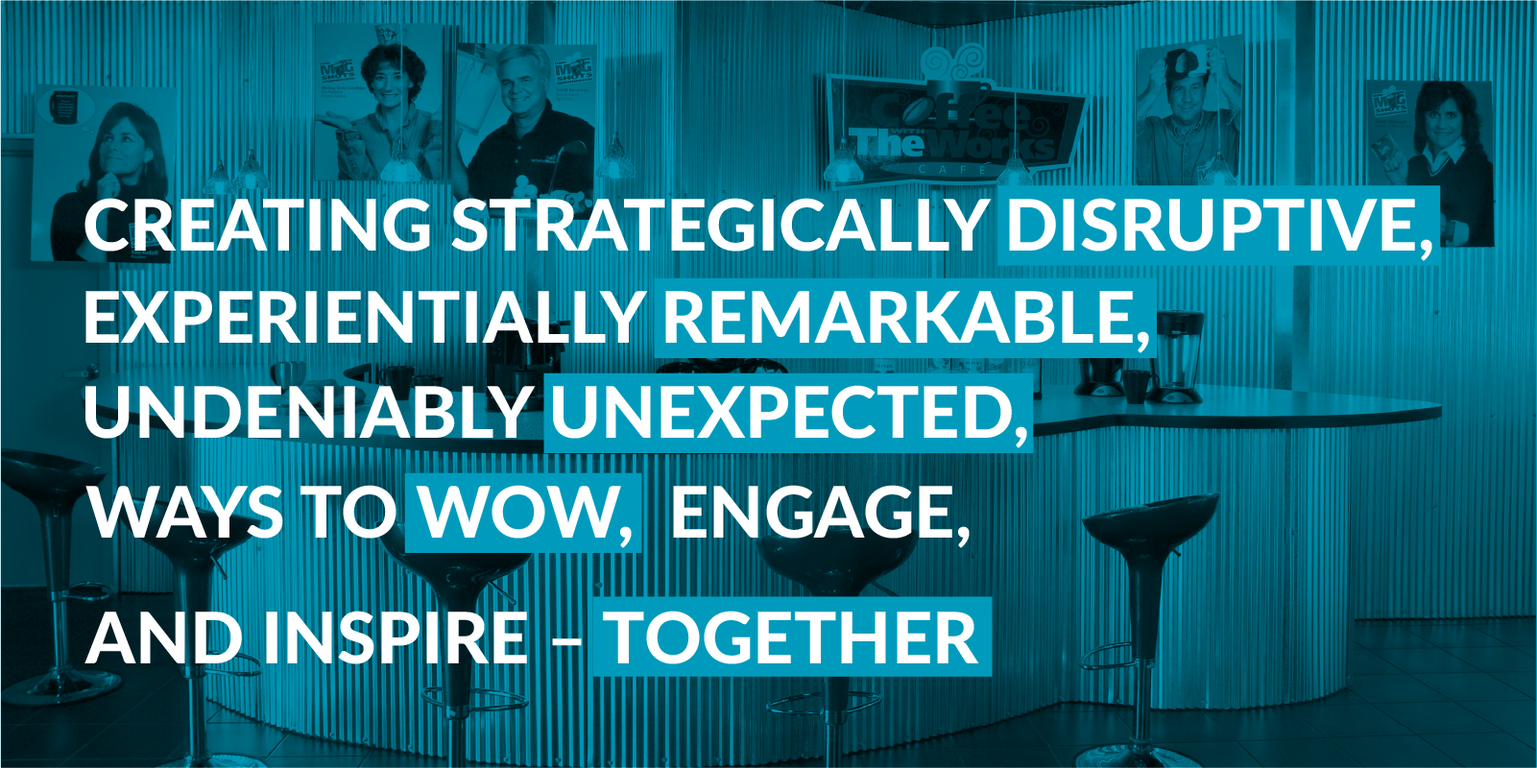
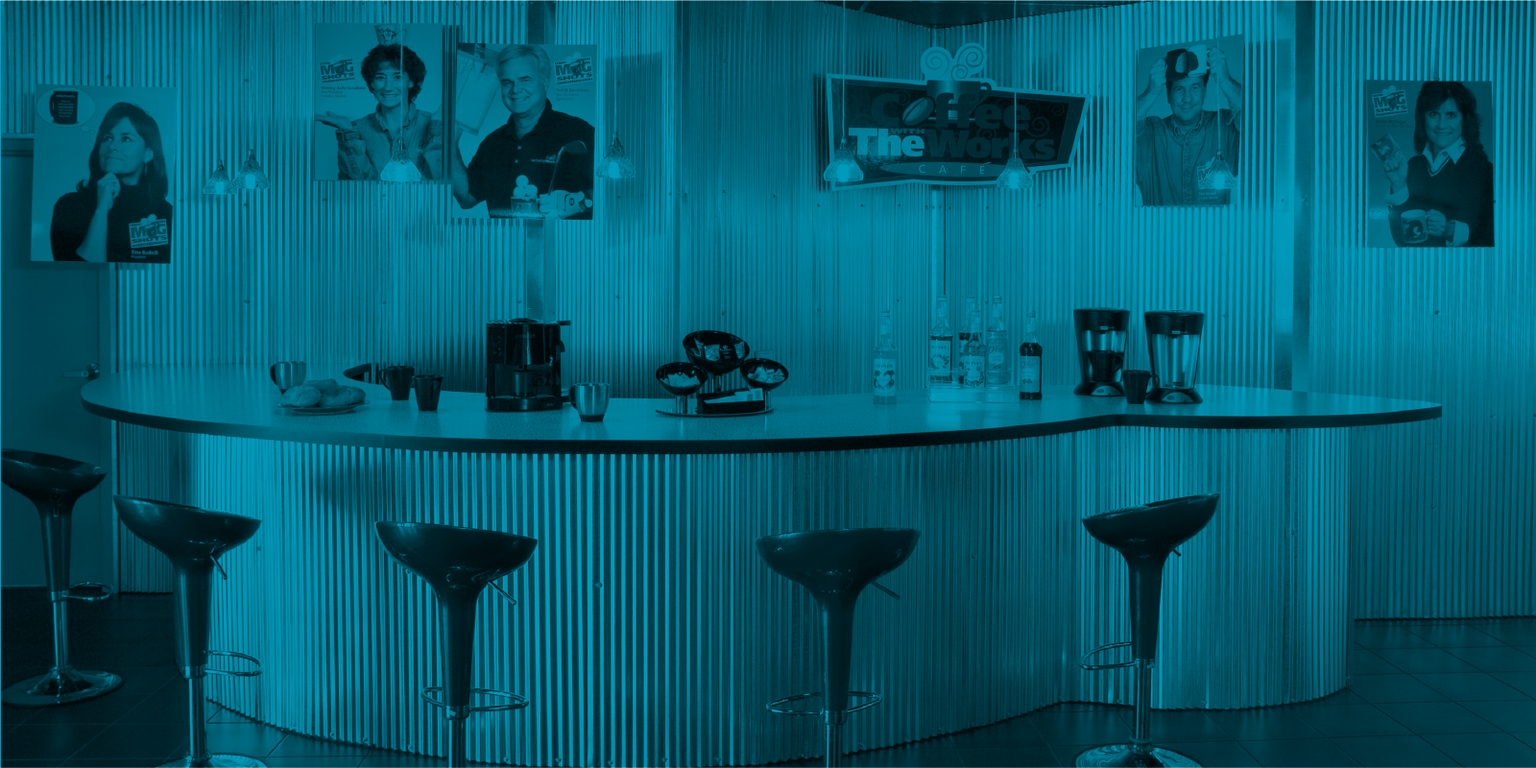
shit

Changed region(s): [[0.0312, 0.0, 1.0, 1.0], [0.7812, 0.5625, 0.9062, 0.9062], [0.9688, 0.625, 1.0, 0.75]]

diff --git a/wp-content/themes/marketingworks/assets/css/theme.min.css b/wp-content/themes/marketingworks/assets/css/theme.min.css
@@ -1,1 +1,1 @@
-.container,.container-fluid{margin-right:auto;margin-left:auto}.container-fluid:after,.container-fluid:before,.container:after,.container:before,.row:after,.row:before{content:" ";display:table}.container-fluid:after,.container:after,.row:after{clear:both}.container,.container-fluid{padding-left:15px;padding-right:15px}.col-xs-1,.col-xs-10,.col-xs-11,.col-xs-12,.col-xs-2,.col-xs-3,.col-xs-4,.col-xs-5,.col-xs-6,.col-xs-7,.col-xs-8,.col-xs-9,.nav-primary{float:left}@media (min-width:768px){.container{width:750px}}@media (min-width:992px){.container{width:970px}}@media (min-width:1200px){.container{width:1170px}}.row{margin-left:-15px;margin-right:-15px}.col-lg-1,.col-lg-10,.col-lg-11,.col-lg-12,.col-lg-2,.col-lg-3,.col-lg-4,.col-lg-5,.col-lg-6,.col-lg-7,.col-lg-8,.col-lg-9,.col-md-1,.col-md-10,.col-md-11,.col-md-12,.col-md-2,.col-md-3,.col-md-4,.col-md-5,.col-md-6,.col-md-7,.col-md-8,.col-md-9,.col-sm-1,.col-sm-10,.col-sm-11,.col-sm-12,.col-sm-2,.col-sm-3,.col-sm-4,.col-sm-5,.col-sm-6,.col-sm-7,.col-sm-8,.col-sm-9,.col-xs-1,.col-xs-10,.col-xs-11,.col-xs-12,.col-xs-2,.col-xs-3,.col-xs-4,.col-xs-5,.col-xs-6,.col-xs-7,.col-xs-8,.col-xs-9{position:relative;min-height:1px;padding-left:15px;padding-right:15px}.col-xs-1{width:8.33333%}.col-xs-2{width:16.66667%}.col-xs-3{width:25%}.col-xs-4{width:33.33333%}.col-xs-5{width:41.66667%}.col-xs-6{width:50%}.col-xs-7{width:58.33333%}.col-xs-8{width:66.66667%}.col-xs-9{width:75%}.col-xs-10{width:83.33333%}.col-xs-11{width:91.66667%}.col-xs-12{width:100%}.col-xs-pull-0{right:auto}.col-xs-pull-1{right:8.33333%}.col-xs-pull-2{right:16.66667%}.col-xs-pull-3{right:25%}.col-xs-pull-4{right:33.33333%}.col-xs-pull-5{right:41.66667%}.col-xs-pull-6{right:50%}.col-xs-pull-7{right:58.33333%}.col-xs-pull-8{right:66.66667%}.col-xs-pull-9{right:75%}.col-xs-pull-10{right:83.33333%}.col-xs-pull-11{right:91.66667%}.col-xs-pull-12{right:100%}.col-xs-push-0{left:auto}.col-xs-push-1{left:8.33333%}.col-xs-push-2{left:16.66667%}.col-xs-push-3{left:25%}.col-xs-push-4{left:33.33333%}.col-xs-push-5{left:41.66667%}.col-xs-push-6{left:50%}.col-xs-push-7{left:58.33333%}.col-xs-push-8{left:66.66667%}.col-xs-push-9{left:75%}.col-xs-push-10{left:83.33333%}.col-xs-push-11{left:91.66667%}.col-xs-push-12{left:100%}.col-xs-offset-0{margin-left:0}.col-xs-offset-1{margin-left:8.33333%}.col-xs-offset-2{margin-left:16.66667%}.col-xs-offset-3{margin-left:25%}.col-xs-offset-4{margin-left:33.33333%}.col-xs-offset-5{margin-left:41.66667%}.col-xs-offset-6{margin-left:50%}.col-xs-offset-7{margin-left:58.33333%}.col-xs-offset-8{margin-left:66.66667%}.col-xs-offset-9{margin-left:75%}.col-xs-offset-10{margin-left:83.33333%}.col-xs-offset-11{margin-left:91.66667%}.col-xs-offset-12{margin-left:100%}@media (min-width:768px){.col-sm-1,.col-sm-10,.col-sm-11,.col-sm-12,.col-sm-2,.col-sm-3,.col-sm-4,.col-sm-5,.col-sm-6,.col-sm-7,.col-sm-8,.col-sm-9{float:left}.col-sm-1{width:8.33333%}.col-sm-2{width:16.66667%}.col-sm-3{width:25%}.col-sm-4{width:33.33333%}.col-sm-5{width:41.66667%}.col-sm-6{width:50%}.col-sm-7{width:58.33333%}.col-sm-8{width:66.66667%}.col-sm-9{width:75%}.col-sm-10{width:83.33333%}.col-sm-11{width:91.66667%}.col-sm-12{width:100%}.col-sm-pull-0{right:auto}.col-sm-pull-1{right:8.33333%}.col-sm-pull-2{right:16.66667%}.col-sm-pull-3{right:25%}.col-sm-pull-4{right:33.33333%}.col-sm-pull-5{right:41.66667%}.col-sm-pull-6{right:50%}.col-sm-pull-7{right:58.33333%}.col-sm-pull-8{right:66.66667%}.col-sm-pull-9{right:75%}.col-sm-pull-10{right:83.33333%}.col-sm-pull-11{right:91.66667%}.col-sm-pull-12{right:100%}.col-sm-push-0{left:auto}.col-sm-push-1{left:8.33333%}.col-sm-push-2{left:16.66667%}.col-sm-push-3{left:25%}.col-sm-push-4{left:33.33333%}.col-sm-push-5{left:41.66667%}.col-sm-push-6{left:50%}.col-sm-push-7{left:58.33333%}.col-sm-push-8{left:66.66667%}.col-sm-push-9{left:75%}.col-sm-push-10{left:83.33333%}.col-sm-push-11{left:91.66667%}.col-sm-push-12{left:100%}.col-sm-offset-0{margin-left:0}.col-sm-offset-1{margin-left:8.33333%}.col-sm-offset-2{margin-left:16.66667%}.col-sm-offset-3{margin-left:25%}.col-sm-offset-4{margin-left:33.33333%}.col-sm-offset-5{margin-left:41.66667%}.col-sm-offset-6{margin-left:50%}.col-sm-offset-7{margin-left:58.33333%}.col-sm-offset-8{margin-left:66.66667%}.col-sm-offset-9{margin-left:75%}.col-sm-offset-10{margin-left:83.33333%}.col-sm-offset-11{margin-left:91.66667%}.col-sm-offset-12{margin-left:100%}}@media (min-width:992px){.col-md-1,.col-md-10,.col-md-11,.col-md-12,.col-md-2,.col-md-3,.col-md-4,.col-md-5,.col-md-6,.col-md-7,.col-md-8,.col-md-9{float:left}.col-md-1{width:8.33333%}.col-md-2{width:16.66667%}.col-md-3{width:25%}.col-md-4{width:33.33333%}.col-md-5{width:41.66667%}.col-md-6{width:50%}.col-md-7{width:58.33333%}.col-md-8{width:66.66667%}.col-md-9{width:75%}.col-md-10{width:83.33333%}.col-md-11{width:91.66667%}.col-md-12{width:100%}.col-md-pull-0{right:auto}.col-md-pull-1{right:8.33333%}.col-md-pull-2{right:16.66667%}.col-md-pull-3{right:25%}.col-md-pull-4{right:33.33333%}.col-md-pull-5{right:41.66667%}.col-md-pull-6{right:50%}.col-md-pull-7{right:58.33333%}.col-md-pull-8{right:66.66667%}.col-md-pull-9{right:75%}.col-md-pull-10{right:83.33333%}.col-md-pull-11{right:91.66667%}.col-md-pull-12{right:100%}.col-md-push-0{left:auto}.col-md-push-1{left:8.33333%}.col-md-push-2{left:16.66667%}.col-md-push-3{left:25%}.col-md-push-4{left:33.33333%}.col-md-push-5{left:41.66667%}.col-md-push-6{left:50%}.col-md-push-7{left:58.33333%}.col-md-push-8{left:66.66667%}.col-md-push-9{left:75%}.col-md-push-10{left:83.33333%}.col-md-push-11{left:91.66667%}.col-md-push-12{left:100%}.col-md-offset-0{margin-left:0}.col-md-offset-1{margin-left:8.33333%}.col-md-offset-2{margin-left:16.66667%}.col-md-offset-3{margin-left:25%}.col-md-offset-4{margin-left:33.33333%}.col-md-offset-5{margin-left:41.66667%}.col-md-offset-6{margin-left:50%}.col-md-offset-7{margin-left:58.33333%}.col-md-offset-8{margin-left:66.66667%}.col-md-offset-9{margin-left:75%}.col-md-offset-10{margin-left:83.33333%}.col-md-offset-11{margin-left:91.66667%}.col-md-offset-12{margin-left:100%}}@media (min-width:1200px){.col-lg-1,.col-lg-10,.col-lg-11,.col-lg-12,.col-lg-2,.col-lg-3,.col-lg-4,.col-lg-5,.col-lg-6,.col-lg-7,.col-lg-8,.col-lg-9{float:left}.col-lg-1{width:8.33333%}.col-lg-2{width:16.66667%}.col-lg-3{width:25%}.col-lg-4{width:33.33333%}.col-lg-5{width:41.66667%}.col-lg-6{width:50%}.col-lg-7{width:58.33333%}.col-lg-8{width:66.66667%}.col-lg-9{width:75%}.col-lg-10{width:83.33333%}.col-lg-11{width:91.66667%}.col-lg-12{width:100%}.col-lg-pull-0{right:auto}.col-lg-pull-1{right:8.33333%}.col-lg-pull-2{right:16.66667%}.col-lg-pull-3{right:25%}.col-lg-pull-4{right:33.33333%}.col-lg-pull-5{right:41.66667%}.col-lg-pull-6{right:50%}.col-lg-pull-7{right:58.33333%}.col-lg-pull-8{right:66.66667%}.col-lg-pull-9{right:75%}.col-lg-pull-10{right:83.33333%}.col-lg-pull-11{right:91.66667%}.col-lg-pull-12{right:100%}.col-lg-push-0{left:auto}.col-lg-push-1{left:8.33333%}.col-lg-push-2{left:16.66667%}.col-lg-push-3{left:25%}.col-lg-push-4{left:33.33333%}.col-lg-push-5{left:41.66667%}.col-lg-push-6{left:50%}.col-lg-push-7{left:58.33333%}.col-lg-push-8{left:66.66667%}.col-lg-push-9{left:75%}.col-lg-push-10{left:83.33333%}.col-lg-push-11{left:91.66667%}.col-lg-push-12{left:100%}.col-lg-offset-0{margin-left:0}.col-lg-offset-1{margin-left:8.33333%}.col-lg-offset-2{margin-left:16.66667%}.col-lg-offset-3{margin-left:25%}.col-lg-offset-4{margin-left:33.33333%}.col-lg-offset-5{margin-left:41.66667%}.col-lg-offset-6{margin-left:50%}.col-lg-offset-7{margin-left:58.33333%}.col-lg-offset-8{margin-left:66.66667%}.col-lg-offset-9{margin-left:75%}.col-lg-offset-10{margin-left:83.33333%}.col-lg-offset-11{margin-left:91.66667%}.col-lg-offset-12{margin-left:100%}}footer.site-footer div.wrap,header.site-header div.wrap{width:100%;padding:0 3%;max-width:none}header.site-header{position:relative;width:100%;z-index:999;background:#dbdf1f;text-align:center;min-height:inherit}header.site-header h1.site-title{bottom:auto;left:50%;margin-left:-73px;padding:0;position:absolute;top:0;width:147px;z-index:100}header.site-header h1.site-title a{background:url(../../assets/images/logo.png)left center no-repeat;height:110px;position:relative;margin-top:5px}header.site-header h1.site-title a:before{content:"";background:url(../../assets/images/header-gear.png)center no-repeat;position:absolute;top:-15px;left:-49px;display:block;width:253px;height:182px;z-index:-1;-webkit-transition:-webkit-transform .2s,left .2s;transition:transform .2s,left .2s;-webkit-transform:rotate(-5deg);-ms-transform:rotate(-5deg);transform:rotate(-5deg)}header.site-header h1.site-title a:hover:before{-webkit-transform:rotate(5deg);-ms-transform:rotate(5deg);transform:rotate(5deg);left:-53px}.nav-primary,.nav-secondary{background:0 0;padding:0}.nav-primary .genesis-nav-menu a,.nav-secondary .genesis-nav-menu a{color:#7f7f7f;text-transform:uppercase;padding-top:1em;padding-bottom:1em;font-size:.8rem;font-weight:700;-webkit-transition:color .2s;transition:color .2s}.nav-primary .genesis-nav-menu a:hover,.nav-secondary .genesis-nav-menu a:hover{color:#048a9c}.nav-primary .mw-menu-phone a:hover,.nav-secondary .mw-menu-phone a:hover{color:#7f7f7f}.nav-secondary{float:right}div.site-inner{padding-top:1em}aside.mw-feature p.mw-feature-text{color:#fff;font-size:3rem;font-weight:500;text-transform:uppercase}aside.mw-feature p.mw-feature-text strong{font-weight:500;background-color:#048a9c}
+.container,.container-fluid{margin-right:auto;margin-left:auto}.container-fluid:after,.container-fluid:before,.container:after,.container:before,.row:after,.row:before{content:" ";display:table}.container-fluid:after,.container:after,.row:after{clear:both}.container,.container-fluid{padding-left:15px;padding-right:15px}.col-xs-1,.col-xs-10,.col-xs-11,.col-xs-12,.col-xs-2,.col-xs-3,.col-xs-4,.col-xs-5,.col-xs-6,.col-xs-7,.col-xs-8,.col-xs-9,.nav-primary{float:left}.mw-section-blue,.mw-section-white{text-align:center}@media (min-width:768px){.container{width:750px}}@media (min-width:992px){.container{width:970px}}@media (min-width:1200px){.container{width:1170px}}.row{margin-left:-15px;margin-right:-15px}.col-lg-1,.col-lg-10,.col-lg-11,.col-lg-12,.col-lg-2,.col-lg-3,.col-lg-4,.col-lg-5,.col-lg-6,.col-lg-7,.col-lg-8,.col-lg-9,.col-md-1,.col-md-10,.col-md-11,.col-md-12,.col-md-2,.col-md-3,.col-md-4,.col-md-5,.col-md-6,.col-md-7,.col-md-8,.col-md-9,.col-sm-1,.col-sm-10,.col-sm-11,.col-sm-12,.col-sm-2,.col-sm-3,.col-sm-4,.col-sm-5,.col-sm-6,.col-sm-7,.col-sm-8,.col-sm-9,.col-xs-1,.col-xs-10,.col-xs-11,.col-xs-12,.col-xs-2,.col-xs-3,.col-xs-4,.col-xs-5,.col-xs-6,.col-xs-7,.col-xs-8,.col-xs-9{position:relative;min-height:1px;padding-left:15px;padding-right:15px}.col-xs-1{width:8.33333%}.col-xs-2{width:16.66667%}.col-xs-3{width:25%}.col-xs-4{width:33.33333%}.col-xs-5{width:41.66667%}.col-xs-6{width:50%}.col-xs-7{width:58.33333%}.col-xs-8{width:66.66667%}.col-xs-9{width:75%}.col-xs-10{width:83.33333%}.col-xs-11{width:91.66667%}.col-xs-12{width:100%}.col-xs-pull-0{right:auto}.col-xs-pull-1{right:8.33333%}.col-xs-pull-2{right:16.66667%}.col-xs-pull-3{right:25%}.col-xs-pull-4{right:33.33333%}.col-xs-pull-5{right:41.66667%}.col-xs-pull-6{right:50%}.col-xs-pull-7{right:58.33333%}.col-xs-pull-8{right:66.66667%}.col-xs-pull-9{right:75%}.col-xs-pull-10{right:83.33333%}.col-xs-pull-11{right:91.66667%}.col-xs-pull-12{right:100%}.col-xs-push-0{left:auto}.col-xs-push-1{left:8.33333%}.col-xs-push-2{left:16.66667%}.col-xs-push-3{left:25%}.col-xs-push-4{left:33.33333%}.col-xs-push-5{left:41.66667%}.col-xs-push-6{left:50%}.col-xs-push-7{left:58.33333%}.col-xs-push-8{left:66.66667%}.col-xs-push-9{left:75%}.col-xs-push-10{left:83.33333%}.col-xs-push-11{left:91.66667%}.col-xs-push-12{left:100%}.col-xs-offset-0{margin-left:0}.col-xs-offset-1{margin-left:8.33333%}.col-xs-offset-2{margin-left:16.66667%}.col-xs-offset-3{margin-left:25%}.col-xs-offset-4{margin-left:33.33333%}.col-xs-offset-5{margin-left:41.66667%}.col-xs-offset-6{margin-left:50%}.col-xs-offset-7{margin-left:58.33333%}.col-xs-offset-8{margin-left:66.66667%}.col-xs-offset-9{margin-left:75%}.col-xs-offset-10{margin-left:83.33333%}.col-xs-offset-11{margin-left:91.66667%}.col-xs-offset-12{margin-left:100%}@media (min-width:768px){.col-sm-1,.col-sm-10,.col-sm-11,.col-sm-12,.col-sm-2,.col-sm-3,.col-sm-4,.col-sm-5,.col-sm-6,.col-sm-7,.col-sm-8,.col-sm-9{float:left}.col-sm-1{width:8.33333%}.col-sm-2{width:16.66667%}.col-sm-3{width:25%}.col-sm-4{width:33.33333%}.col-sm-5{width:41.66667%}.col-sm-6{width:50%}.col-sm-7{width:58.33333%}.col-sm-8{width:66.66667%}.col-sm-9{width:75%}.col-sm-10{width:83.33333%}.col-sm-11{width:91.66667%}.col-sm-12{width:100%}.col-sm-pull-0{right:auto}.col-sm-pull-1{right:8.33333%}.col-sm-pull-2{right:16.66667%}.col-sm-pull-3{right:25%}.col-sm-pull-4{right:33.33333%}.col-sm-pull-5{right:41.66667%}.col-sm-pull-6{right:50%}.col-sm-pull-7{right:58.33333%}.col-sm-pull-8{right:66.66667%}.col-sm-pull-9{right:75%}.col-sm-pull-10{right:83.33333%}.col-sm-pull-11{right:91.66667%}.col-sm-pull-12{right:100%}.col-sm-push-0{left:auto}.col-sm-push-1{left:8.33333%}.col-sm-push-2{left:16.66667%}.col-sm-push-3{left:25%}.col-sm-push-4{left:33.33333%}.col-sm-push-5{left:41.66667%}.col-sm-push-6{left:50%}.col-sm-push-7{left:58.33333%}.col-sm-push-8{left:66.66667%}.col-sm-push-9{left:75%}.col-sm-push-10{left:83.33333%}.col-sm-push-11{left:91.66667%}.col-sm-push-12{left:100%}.col-sm-offset-0{margin-left:0}.col-sm-offset-1{margin-left:8.33333%}.col-sm-offset-2{margin-left:16.66667%}.col-sm-offset-3{margin-left:25%}.col-sm-offset-4{margin-left:33.33333%}.col-sm-offset-5{margin-left:41.66667%}.col-sm-offset-6{margin-left:50%}.col-sm-offset-7{margin-left:58.33333%}.col-sm-offset-8{margin-left:66.66667%}.col-sm-offset-9{margin-left:75%}.col-sm-offset-10{margin-left:83.33333%}.col-sm-offset-11{margin-left:91.66667%}.col-sm-offset-12{margin-left:100%}}@media (min-width:992px){.col-md-1,.col-md-10,.col-md-11,.col-md-12,.col-md-2,.col-md-3,.col-md-4,.col-md-5,.col-md-6,.col-md-7,.col-md-8,.col-md-9{float:left}.col-md-1{width:8.33333%}.col-md-2{width:16.66667%}.col-md-3{width:25%}.col-md-4{width:33.33333%}.col-md-5{width:41.66667%}.col-md-6{width:50%}.col-md-7{width:58.33333%}.col-md-8{width:66.66667%}.col-md-9{width:75%}.col-md-10{width:83.33333%}.col-md-11{width:91.66667%}.col-md-12{width:100%}.col-md-pull-0{right:auto}.col-md-pull-1{right:8.33333%}.col-md-pull-2{right:16.66667%}.col-md-pull-3{right:25%}.col-md-pull-4{right:33.33333%}.col-md-pull-5{right:41.66667%}.col-md-pull-6{right:50%}.col-md-pull-7{right:58.33333%}.col-md-pull-8{right:66.66667%}.col-md-pull-9{right:75%}.col-md-pull-10{right:83.33333%}.col-md-pull-11{right:91.66667%}.col-md-pull-12{right:100%}.col-md-push-0{left:auto}.col-md-push-1{left:8.33333%}.col-md-push-2{left:16.66667%}.col-md-push-3{left:25%}.col-md-push-4{left:33.33333%}.col-md-push-5{left:41.66667%}.col-md-push-6{left:50%}.col-md-push-7{left:58.33333%}.col-md-push-8{left:66.66667%}.col-md-push-9{left:75%}.col-md-push-10{left:83.33333%}.col-md-push-11{left:91.66667%}.col-md-push-12{left:100%}.col-md-offset-0{margin-left:0}.col-md-offset-1{margin-left:8.33333%}.col-md-offset-2{margin-left:16.66667%}.col-md-offset-3{margin-left:25%}.col-md-offset-4{margin-left:33.33333%}.col-md-offset-5{margin-left:41.66667%}.col-md-offset-6{margin-left:50%}.col-md-offset-7{margin-left:58.33333%}.col-md-offset-8{margin-left:66.66667%}.col-md-offset-9{margin-left:75%}.col-md-offset-10{margin-left:83.33333%}.col-md-offset-11{margin-left:91.66667%}.col-md-offset-12{margin-left:100%}}@media (min-width:1200px){.col-lg-1,.col-lg-10,.col-lg-11,.col-lg-12,.col-lg-2,.col-lg-3,.col-lg-4,.col-lg-5,.col-lg-6,.col-lg-7,.col-lg-8,.col-lg-9{float:left}.col-lg-1{width:8.33333%}.col-lg-2{width:16.66667%}.col-lg-3{width:25%}.col-lg-4{width:33.33333%}.col-lg-5{width:41.66667%}.col-lg-6{width:50%}.col-lg-7{width:58.33333%}.col-lg-8{width:66.66667%}.col-lg-9{width:75%}.col-lg-10{width:83.33333%}.col-lg-11{width:91.66667%}.col-lg-12{width:100%}.col-lg-pull-0{right:auto}.col-lg-pull-1{right:8.33333%}.col-lg-pull-2{right:16.66667%}.col-lg-pull-3{right:25%}.col-lg-pull-4{right:33.33333%}.col-lg-pull-5{right:41.66667%}.col-lg-pull-6{right:50%}.col-lg-pull-7{right:58.33333%}.col-lg-pull-8{right:66.66667%}.col-lg-pull-9{right:75%}.col-lg-pull-10{right:83.33333%}.col-lg-pull-11{right:91.66667%}.col-lg-pull-12{right:100%}.col-lg-push-0{left:auto}.col-lg-push-1{left:8.33333%}.col-lg-push-2{left:16.66667%}.col-lg-push-3{left:25%}.col-lg-push-4{left:33.33333%}.col-lg-push-5{left:41.66667%}.col-lg-push-6{left:50%}.col-lg-push-7{left:58.33333%}.col-lg-push-8{left:66.66667%}.col-lg-push-9{left:75%}.col-lg-push-10{left:83.33333%}.col-lg-push-11{left:91.66667%}.col-lg-push-12{left:100%}.col-lg-offset-0{margin-left:0}.col-lg-offset-1{margin-left:8.33333%}.col-lg-offset-2{margin-left:16.66667%}.col-lg-offset-3{margin-left:25%}.col-lg-offset-4{margin-left:33.33333%}.col-lg-offset-5{margin-left:41.66667%}.col-lg-offset-6{margin-left:50%}.col-lg-offset-7{margin-left:58.33333%}.col-lg-offset-8{margin-left:66.66667%}.col-lg-offset-9{margin-left:75%}.col-lg-offset-10{margin-left:83.33333%}.col-lg-offset-11{margin-left:91.66667%}.col-lg-offset-12{margin-left:100%}}div.site-inner div.wrap,footer.site-footer div.wrap,header.site-header div.wrap{width:94%;padding:0 15px;max-width:none;margin:0 3%}div.site-inner{width:100%;max-width:none;margin:0;padding:0}header.site-header{position:relative;width:100%;z-index:999;background:#dbdf1f;text-align:center;min-height:inherit}header.site-header h1.site-title{bottom:auto;left:50%;margin-left:-73px;padding:0;position:absolute;top:0;width:147px;z-index:100}header.site-header h1.site-title a{background:url(../../assets/images/logo.png)left center no-repeat;height:110px;position:relative;margin-top:5px}header.site-header h1.site-title a:before{content:"";background:url(../../assets/images/header-gear.png)center no-repeat;position:absolute;top:-15px;left:-49px;display:block;width:253px;height:182px;z-index:-1;-webkit-transition:-webkit-transform .2s,left .2s;transition:transform .2s,left .2s;-webkit-transform:rotate(-5deg);-ms-transform:rotate(-5deg);transform:rotate(-5deg)}header.site-header h1.site-title a:hover:before{-webkit-transform:rotate(5deg);-ms-transform:rotate(5deg);transform:rotate(5deg);left:-53px}.nav-primary,.nav-secondary{background:0 0;padding:0}.nav-primary .genesis-nav-menu a,.nav-secondary .genesis-nav-menu a{color:#7f7f7f;text-transform:uppercase;padding-top:1em;padding-bottom:1em;font-size:.8rem;font-weight:700;-webkit-transition:color .2s;transition:color .2s}.nav-primary .genesis-nav-menu a:hover,.nav-secondary .genesis-nav-menu a:hover{color:#048a9c}.nav-primary .mw-menu-phone a:hover,.nav-secondary .mw-menu-phone a:hover{color:#7f7f7f}.nav-secondary{float:right}body{background-color:#fff}aside.mw-feature{background:url(../../assets/images/hero-image.png)center center no-repeat;background-size:cover;margin-left:-1px;padding-top:8em;padding-bottom:2em}aside.mw-feature p.mw-feature-text{color:#fff;font-size:3rem;font-weight:500;text-transform:uppercase}aside.mw-feature p.mw-feature-text strong{font-weight:500;background-color:#048a9c;padding:0 10px}.mw-section-green{background:#dbdf1f}.mw-section-green .mw-section-heading{color:#fff}.mw-section-blue{background:#009bbc;color:#fff}.mw-section-white .mw-section-heading{color:#dbdf1f}

diff --git a/wp-content/themes/marketingworks/assets/sass/includes/_content.scss b/wp-content/themes/marketingworks/assets/sass/includes/_content.scss
@@ -1,14 +1,17 @@
 /***** Content *****/
 
-// content layout
-div.site-inner {
-  padding-top: $padding;
+//global
+body {
+  background-color: $white;
 }
 
 // homepage
 aside.mw-feature {
-//  background: url( $images + "hero-image.png") no-repeat center center;
-//  background-size: cover;
+  background: url( $images + "hero-image.png") no-repeat center center;
+  background-size: cover;
+  margin-left: -1px;
+  padding-top: $padding * 8;
+  padding-bottom: $padding * 2;
 
   p.mw-feature-text {
     color: $white;
@@ -18,7 +21,29 @@ aside.mw-feature {
     strong {
       font-weight: 500;
       background-color: $bluedark;
-
+      padding: 0 10px;
     }
+  }
+}
+
+.mw-section-green {
+  background: $green;
+
+  .mw-section-heading {
+    color: $white;
+  }
+}
+
+.mw-section-blue {
+  background: $blue;
+  color: $white;
+  text-align: center;
+}
+
+.mw-section-white {
+  text-align: center;
+
+  .mw-section-heading {
+    color: $green;
   }
 }

diff --git a/wp-content/themes/marketingworks/assets/sass/includes/_layout.scss b/wp-content/themes/marketingworks/assets/sass/includes/_layout.scss
@@ -1,7 +1,15 @@
 /***** Layout *****/
 
-header.site-header div.wrap, footer.site-footer div.wrap {
-  width: 100%;
-  padding: 0 3%;
+header.site-header div.wrap, footer.site-footer div.wrap, div.site-inner div.wrap {
+  width: 94%;
+  padding: 0 15px;
   max-width: none;
+  margin: 0 3%;
+}
+
+div.site-inner {
+  width: 100%;
+  max-width: none;
+  margin: 0;
+  padding: 0;
 }

diff --git a/wp-content/themes/marketingworks/assets/sass/theme.scss b/wp-content/themes/marketingworks/assets/sass/theme.scss
@@ -24,3 +24,4 @@
 
 // Content
 @import "includes/content";
+

diff --git a/wp-content/themes/marketingworks/page-home.php b/wp-content/themes/marketingworks/page-home.php
@@ -13,69 +13,122 @@ function mw_home_layout( $opt )
     return $opt;
 }
 
-add_action( 'genesis_after_header', 'mw_hero_image' );
+add_action( 'genesis_before_content', 'mw_hero_image' );
 function mw_hero_image()
 {
     ?>
     <aside class="mw-feature">
-<!--        <p class="mw-feature-text">-->
-<!--            Creating strategically <strong>disruptive,</strong><br/>-->
-<!--            Experientially <strong>remarkable,</strong><br/>-->
-<!--            Undeniably <strong>unexpected,</strong><br/>-->
-<!--            Ways to <strong>wow, engage,</strong><br/>-->
-<!--        </p>-->
-<!--        <p class="mw-feature-text">-->
-<!--            and inspire - <strong>together-->
-<!--        </p>-->
-        <img src="<?php echo get_stylesheet_directory_uri() . "/assets/images/hero-image.png"; ?>" alt="Featured Image"/>
-    </aside>
+        <div class="wrap">
+            <p class="mw-feature-text">
+                Creating strategically <strong>disruptive,</strong><br/>
+                Experientially <strong>remarkable,</strong><br/>
+                Undeniably <strong>unexpected,</strong><br/>
+                Ways to <strong>wow,</strong> engage,<br/>
+            </p>
+            <p class="mw-feature-text">
+                and inspire - <strong>together</strong>
+            </p>
+        </div><!-- .wrap -->
+    </aside><!-- .mw-feature -->
     <?php
 }
 
 add_action('genesis_after_content', 'mw_homepage_tabs');
 function mw_homepage_tabs()
 {
-    $center_tab_title = get_field( "center_tab_title" );
-    $center_tab_heading = get_field( "center_tab_heading" );
-    $center_tab_body = get_field( "center_tab_body" );
+    $center_tab_title = get_field("center_tab_title");
+    $center_tab_heading = get_field("center_tab_heading");
+    $center_tab_body = get_field("center_tab_body");
 
-    $left_tab_title = get_field( "left_tab_title" );
-    $left_tab_heading = get_field( "left_tab_heading" );
-    $left_tab_body = get_field( "left_tab_body" );
+    $left_tab_title = get_field("left_tab_title");
+    $left_tab_heading = get_field("left_tab_heading");
+    $left_tab_body = get_field("left_tab_body");
 
-    $right_tab_title = get_field( "right_tab_title" );
-    $right_tab_heading = get_field( "right_tab_heading" );
-    $right_tab_body = get_field( "right_tab_body" );
+    $right_tab_title = get_field("right_tab_title");
+    $right_tab_heading = get_field("right_tab_heading");
+    $right_tab_body = get_field("right_tab_body");
 
-    if( $center_tab_title ) {
-        echo '<h2 class="mw-tab mw-tab-center mw-tab-current">' . $center_tab_title . '</h2>';
-    }
-    if( $center_tab_heading ) {
-        echo '<h3 class="mw-tab-heading">' . $center_tab_heading . '</h3>';
-    }
-    if( $center_tab_body ) {
-        echo '<div class="mw-tab-body">' . $center_tab_body . '</div>';
-    }
+    ?>
+    <div class="mw-tabs wrap">
+        <div class="row mw-tabs-head">
+            <h2 id="mw-tab-left" class="mw-tab col-sm-4"><?php echo $left_tab_title; ?></h2>
+            <h2 id="mw-tab-center" class="mw-tab mw-tab-current col-sm-4"><?php echo $center_tab_title ?></h2>
+            <h2 id="mw-tab-right" class="mw-tab col-sm-4"><?php echo $right_tab_title; ?></h2>
+        </div>
+    </div>
 
-    if( $left_tab_title ) {
-        echo '<h2 class="mw-tab mw-tab-left">' . $left_tab_title . '</h2>';
-    }
-    if( $left_tab_heading ) {
-        echo '<h3 class="mw-tab-heading">' . $left_tab_heading . '</h3>';
-    }
-    if( $left_tab_body ) {
-        echo '<div class="mw-tab-body">' . $left_tab_body . '</div>';
-    }
+    <article id="mw-section-left" class="mw-tab-section">
+        <div class="wrap">
+            <h3 class="mw-tab-heading"><?php echo $left_tab_heading; ?></h3>
+            <div class="mw-tab-body"><?php echo $left_tab_body; ?></div>
+        </div>
+    </article>
+    <article id="mw-section-center" class="mw-tab-section mw-tab-section-current">
+        <div class="wrap">
+            <h3 class="mw-tab-heading"><?php echo $center_tab_heading ?></h3>
+            <div class="mw-tab-body"><?php echo $center_tab_body ?></div>
+        </div>
+    </article>
+    <article id="mw-section-right" class="mw-tab-section">
+        <div class="wrap">
+            <h3 class="mw-tab-heading"><?php echo $right_tab_heading; ?></h3>
+            <div class="mw-tab-body"><?php echo $right_tab_body; ?></div>
+        </div>
+    </article>
+    <?php
+}
 
-    if( $right_tab_title ) {
-        echo '<h2 class="mw-tab mw-tab-right">' . $right_tab_title . '</h2>';
-    }
-    if( $right_tab_heading ) {
-        echo '<h3 class="mw-tab-heading">' . $right_tab_heading . '</h3>';
-    }
-    if( $right_tab_body ) {
-        echo '<div class="mw-tab-body">' . $right_tab_body . '</div>';
-    }
+add_action('genesis_after_content', 'mw_homepage_sections');
+function mw_homepage_sections()
+{
+    $green_heading = get_field( "green_heading" );
+    $green_body = get_field( "green_body" );
+
+    $blue_heading = get_field( "blue_heading" );
+    $blue_body = get_field( "blue_body" );
+
+    $white_heading = get_field( "white_heading" );
+    $white_body = get_field( "white_body" );
+
+    ?>
+    <article class="mw-section-green">
+        <div class="wrap">
+            <div class="row">
+                <div class="col-sm-6">
+                    <img src="<?php echo get_stylesheet_directory_uri() ?>/assets/images/portfolio-hero-image.png" alt="Portfolio"/>
+                </div>
+                <div class="col-sm-6">
+                    <h2 class="mw-section-heading"><?php echo $green_heading; ?></h2>
+                    <div class="mw-section-body"><?php echo $green_body; ?></div>
+                </div>
+            </div>
+        </div>
+    </article>
+
+    <article class="mw-section-blue">
+        <div class="wrap">
+            <h2 class="mw-section-heading"><?php echo $blue_heading; ?></h2>
+            <div class="mw-section-body"><?php echo $blue_body; ?></div>
+            <div class="mw-history-logos">
+                <span class="mw-history-logo mw-history-logo-1"></span>
+                <span class="mw-history-logo mw-history-logo-2"></span>
+                <span class="mw-history-logo mw-history-logo-3"></span>
+                <span class="mw-history-logo mw-history-logo-4"></span>
+                <span class="mw-history-logo mw-history-logo-5"></span>
+                <span class="mw-history-logo mw-history-logo-6"></span>
+                <span class="mw-history-logo mw-history-logo-7"></span>
+                <span class="mw-history-logo mw-history-logo-8"></span>
+            </div>
+        </div>
+    </article>
+
+    <article class="mw-section-white wrap">
+        <div class="wrap">
+            <h2 class="mw-section-heading"><?php echo $white_heading; ?></h2>
+            <div class="mw-section-body"><?php echo $white_body; ?></div>
+        </div>
+    </article>
+    <?php
 }
 
 genesis();

diff --git a/wp-content/themes/marketingworks/lib/template/genesis_setup.php b/wp-content/themes/marketingworks/lib/template/genesis_setup.php
@@ -43,7 +43,7 @@ genesis_unregister_layout( 'sidebar-sidebar-content' );
 genesis_unregister_layout( 'sidebar-content-sidebar' );
 
 // Adding a wrap to full-width structural elements
-add_theme_support( 'genesis-structural-wraps', array( 'header', 'inner', 'footer' ) );
+add_theme_support( 'genesis-structural-wraps', array( 'header', 'footer' ) );
 
 //* Add HTML5 markup structure
 add_theme_support( 'html5', array( 'search-form', 'comment-form', 'comment-list' ) );
